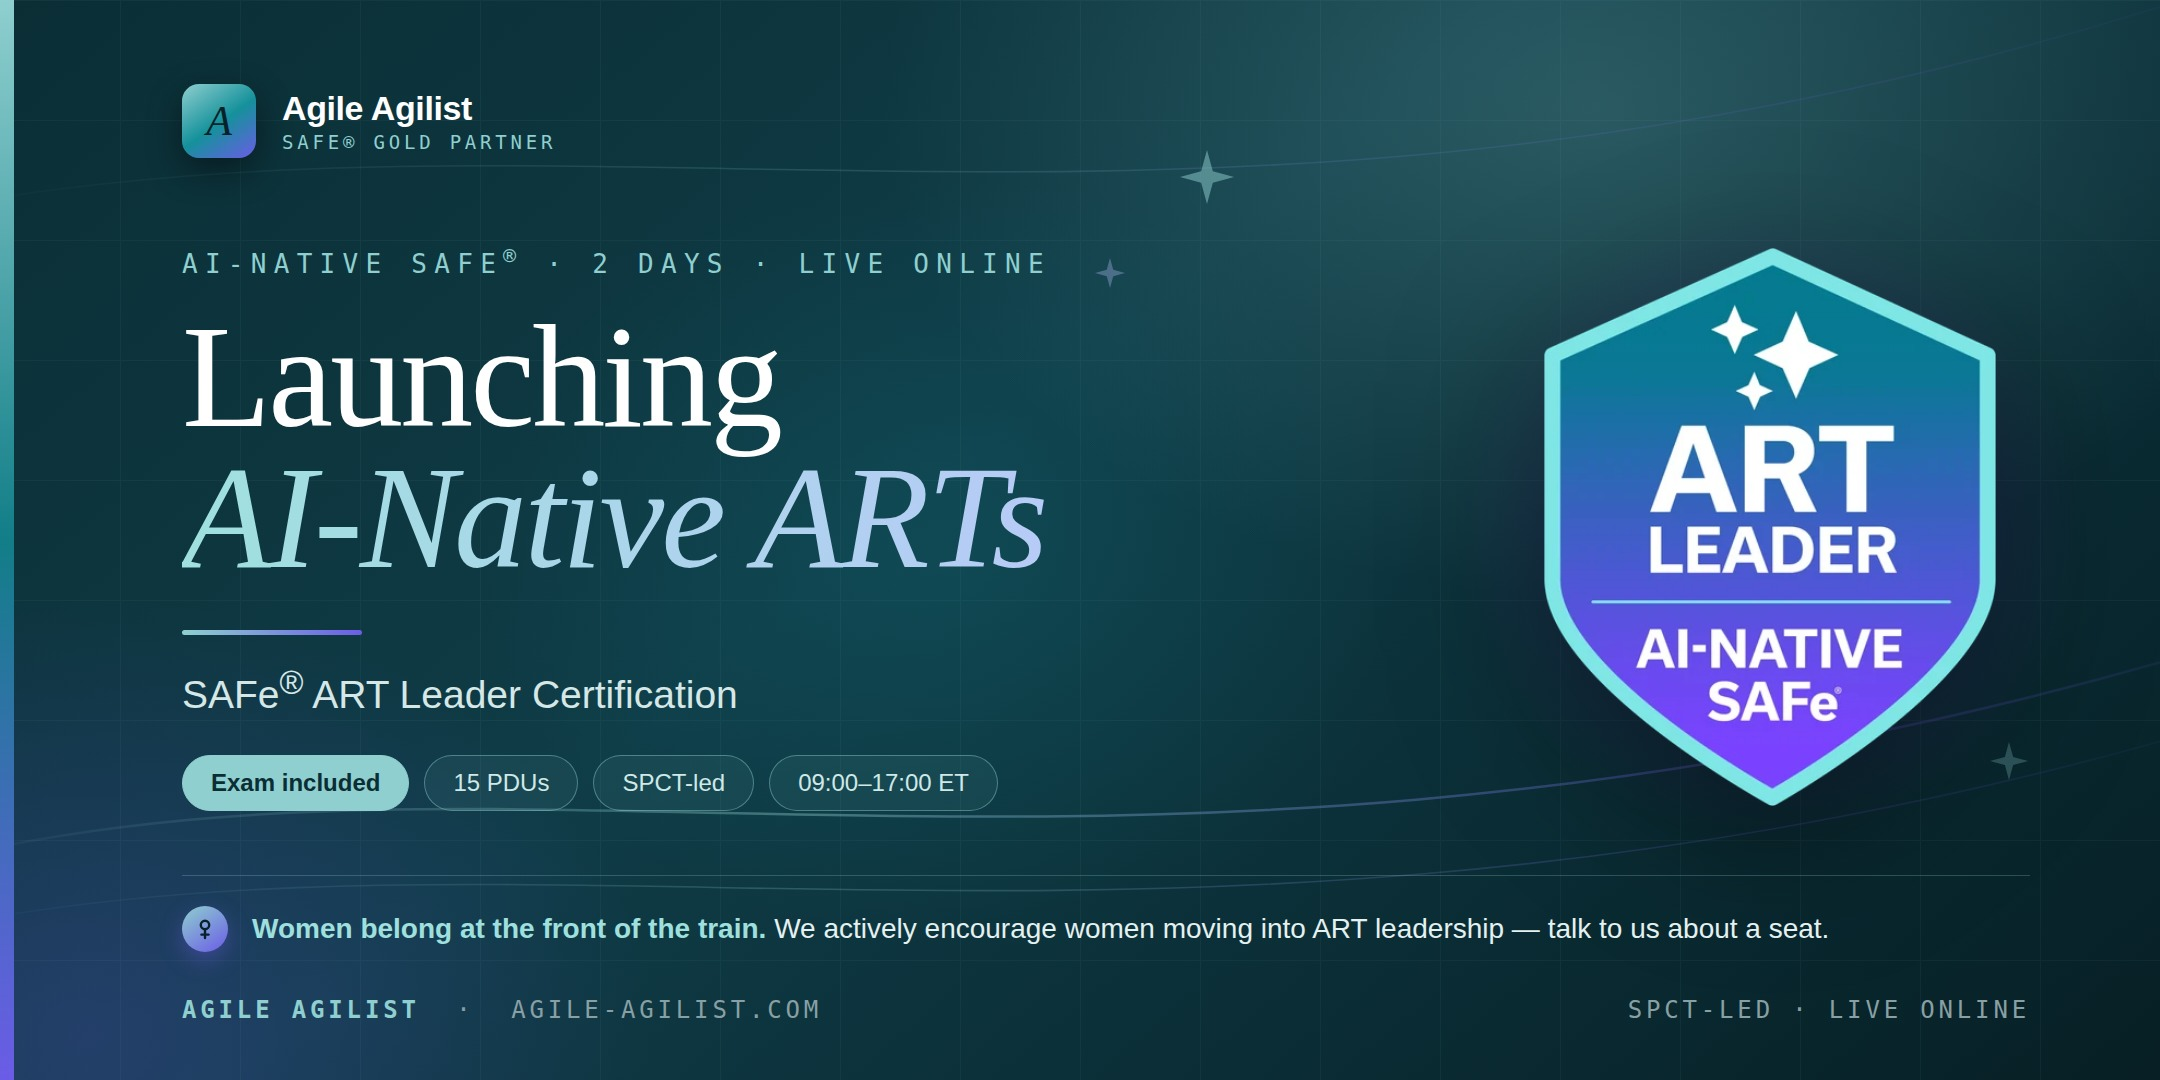
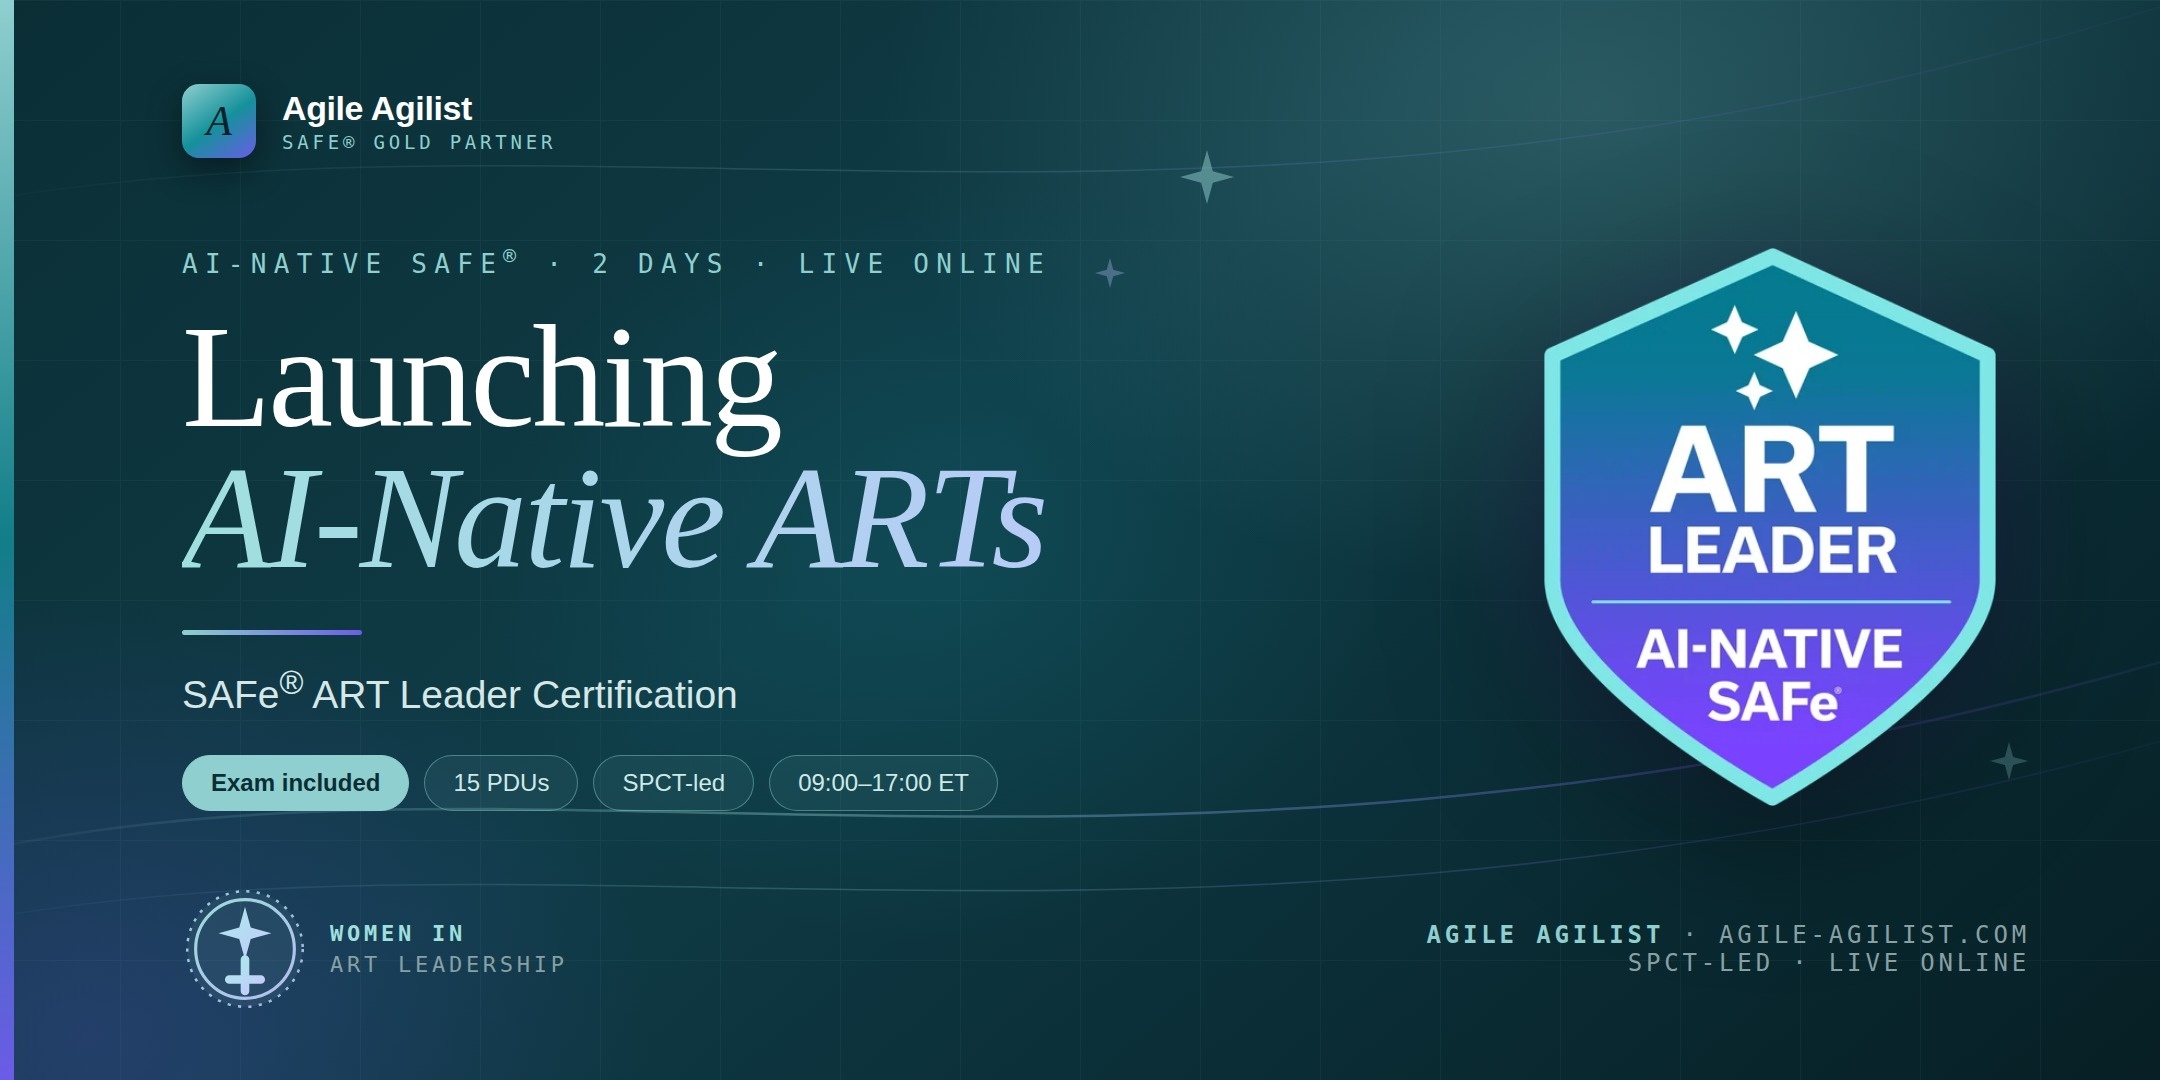
Make the women-in-ART-leadership message a mark, not a sentence
The band read as a claim the viewer had to take on trust, and prose is
the first thing that becomes unreadable when Eventbrite crops a banner to
a feed thumbnail. A seal survives the crop and carries the meaning
without arguing it.

The glyph is the Venus symbol with its circle replaced by the
four-pointed spark already used on the badge and across this artwork --
women and AI-Native in one mark, drawn from the house motif rather than
borrowed from a stock icon set.

Two corrections after looking at the first render: the glyph was too
small inside its ring to resolve, and the violet end of the gradient sat
darker than the background it was drawn on, so the lower half of the mark
disappeared. Glyph scaled up, strokes heavier, gradient moved to two
light stops.

Claude-Session: https://claude.ai/code/session_01ATQktqC5nWP3SNAAUk2uyd

Changed region(s): [[0.062, 0.825, 0.9306, 0.9472], [0.2481, 0.9167, 0.3722, 0.9472], [0.7444, 0.9167, 0.8065, 0.9472]]

diff --git a/marketing/eventbrite/banner-launching-ai-native-arts.html b/marketing/eventbrite/banner-launching-ai-native-arts.html
@@ -72,22 +72,27 @@
   .right img { position:relative; width:452px; height:auto; display:block;
                filter:drop-shadow(0 34px 72px rgba(0,0,0,.55)); }
 
-  /* THE COMMITMENT BAND. Given its own rule and its own space rather than
-     being dropped in as a footnote -- a line about who belongs in the room
-     should not look like small print. */
-  .band { position:absolute; left:182px; right:130px; bottom:128px;
-          display:flex; align-items:center; gap:24px;
-          border-top:1.5px solid rgba(143,207,207,.26); padding-top:30px; }
-  .band .ico { flex:0 0 auto; width:46px; height:46px; border-radius:50%;
-    background:linear-gradient(145deg,#8FCFCF,#6B5CE7); display:flex; align-items:center;
-    justify-content:center; box-shadow:0 8px 22px rgba(107,92,231,.4); }
-  .band p { font-size:28px; line-height:1.3; color:#E4F1F1; font-weight:500; }
-  .band p b { color:#9FE0DE; font-weight:700; }
+  /* WOMEN IN ART LEADERSHIP, AS A MARK RATHER THAN A SENTENCE.
+     A line of prose about who belongs in the room reads as a claim the
+     reader has to take on trust, and at thumbnail size it is the first thing
+     that becomes unreadable. A seal survives the crop and carries meaning
+     without arguing. The glyph is the Venus symbol with its circle replaced
+     by the four-pointed spark used on the badge and across this artwork --
+     women and AI-Native in one mark, drawn from the house motif rather than
+     borrowed from a stock icon set. */
+  .btm { position:absolute; left:182px; right:130px; bottom:68px;
+         display:flex; align-items:center; justify-content:space-between; gap:40px; }
+  .seal { display:flex; align-items:center; gap:22px; }
+  .seal .ring { position:relative; width:126px; height:126px; flex:0 0 auto; }
+  .seal .ring svg { display:block; }
+  .seal .cap { font-family:ui-monospace,"SF Mono",Menlo,Consolas,monospace;
+    font-size:22px; line-height:1.42; letter-spacing:.17em; text-transform:uppercase; }
+  .seal .cap b { display:block; color:#9FE0DE; font-weight:700; }
+  .seal .cap span { display:block; color:#88A0A4; }
 
-  .foot { position:absolute; left:182px; right:130px; bottom:56px;
-          display:flex; align-items:baseline; justify-content:space-between;
-          font-family:ui-monospace,"SF Mono",Menlo,Consolas,monospace;
-          font-size:24px; letter-spacing:.16em; text-transform:uppercase; color:#88A0A4; }
+  .foot { font-family:ui-monospace,"SF Mono",Menlo,Consolas,monospace;
+          font-size:24px; letter-spacing:.16em; text-transform:uppercase;
+          color:#88A0A4; text-align:right; }
   .foot b { color:#8FCFCF; font-weight:600; }
 </style>
 
@@ -145,11 +150,26 @@
   </div>
 </div>
 
-<div class="band">
-  <span class="ico">
-    <svg width="24" height="24" viewBox="0 0 24 24" fill="none" stroke="#07222A" stroke-width="2.4" stroke-linecap="round"><circle cx="12" cy="8" r="4.2"/><path d="M12 12.6V21M8.4 17.6h7.2"/></svg>
-  </span>
-  <p><b>Women belong at the front of the train.</b> We actively encourage women moving into ART leadership &mdash; talk to us about a seat.</p>
+<div class="btm">
+  <div class="seal">
+    <span class="ring">
+      <svg width="126" height="126" viewBox="0 0 120 120">
+        <defs>
+          <linearGradient id="sg" x1="0" y1="0" x2="1" y2="1">
+            <stop offset="0%" stop-color="#A9EAE8"/><stop offset="100%" stop-color="#C6C9FF"/>
+          </linearGradient>
+        </defs>
+        <circle cx="60" cy="60" r="55" fill="rgba(143,207,207,.10)"
+                stroke="url(#sg)" stroke-width="2.4" stroke-dasharray="3 7" opacity=".85"/>
+        <circle cx="60" cy="60" r="47" fill="none" stroke="url(#sg)" stroke-width="3" opacity=".9"/>
+        <g transform="translate(34.8,19.8) scale(2.1)">
+          <path d="M12 0l2.6 9.4L24 12l-9.4 2.6L12 24l-2.6-9.4L0 12l9.4-2.6z" fill="url(#sg)"/>
+        </g>
+        <path d="M60 70 V100 M45 89 H75" stroke="url(#sg)" stroke-width="8.2"
+              stroke-linecap="round" fill="none"/>
+      </svg>
+    </span>
+    <span class="cap"><b>Women in</b><span>ART leadership</span></span>
+  </div>
+  <div class="foot"><b>Agile Agilist</b> &middot; agile-agilist.com<br>SPCT-Led &middot; Live Online</div>
 </div>
-
-<div class="foot"><span><b>Agile Agilist</b> &nbsp;&middot;&nbsp; agile-agilist.com</span><span>SPCT-Led &middot; Live Online</span></div>
